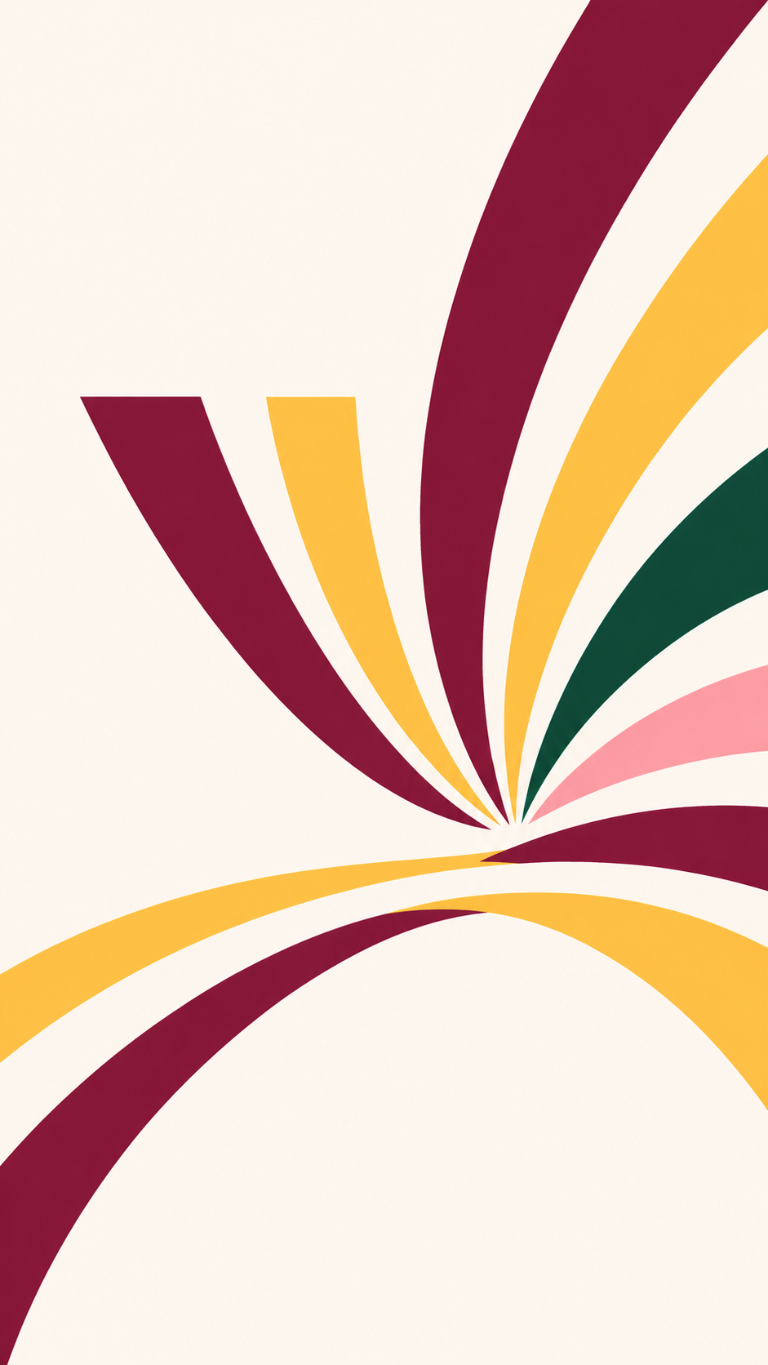
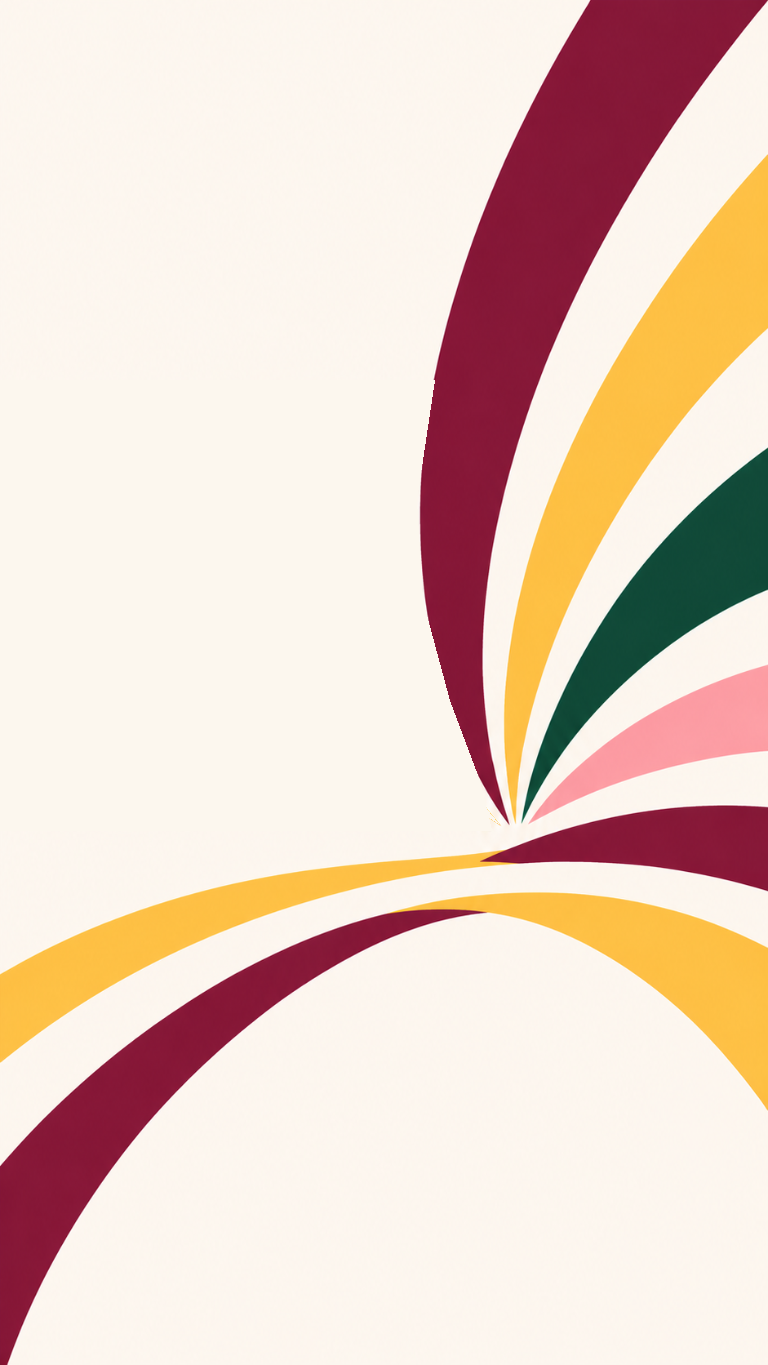
Update hero mobile background, shop and global styles

Changed region(s): [[0.0938, 0.2769, 0.6562, 0.6154]]

diff --git a/src/app/globals.css b/src/app/globals.css
@@ -70,7 +70,7 @@ footer{padding:42px 8vw 28px;display:flex;align-items:end;justify-content:space-
  .hero-reference{min-height:900px;padding-bottom:0}
  .hero-reference .hero-copy{width:100%;max-width:100%;align-self:stretch;margin-top:0}
  .hero-reference .hero-model{width:100%;height:62%;right:0}
- .hero-reference .hero-sunburst{background-image:url("/images/la-gruta-hero-mobile-bg.png");background-position:left top;background-size:auto 120%}
+ .hero-reference .hero-sunburst{background-image:url("/images/la-gruta-hero-mobile-bg.png?v=2");background-position:left top;background-size:auto 120%}
 }
 
 .hero-wholesale{display:inline-block;margin-left:18px;font-size:clamp(15px,1.4vw,21px);font-weight:700;color:#073d32;border-bottom:2px solid #073d32;padding-bottom:3px}
@@ -191,12 +191,15 @@ footer.site-footer .footer-social{border-bottom:0;padding:0}
 .footer-logo img{display:block;height:clamp(64px,6vw,92px);width:auto}
 
 /* Hero móvil: solo animación de entrada y parallax suave, sin rotación ni desvanecido */
-/* Hero móvil: mismo movimiento que desktop (fade del texto, giro del fondo, zoom del modelo).
-   El fondo es 1.9x más grande que el hero para que al girar no se vean las esquinas. */
+/* Hero móvil: sin movimiento al hacer scroll (solo animación de entrada) */
 @media(max-width:650px){
-  .hero-reference .hero-sunburst{inset:-45%;width:auto;height:auto;background-size:cover;background-position:center;transform-origin:50% 50%;transform:translateY(calc(var(--hero-p) * 40px)) rotate(calc(var(--hero-p) * 28deg)) scale(calc(1 + var(--hero-p) * .15))}
-  .hero-reference .hero-copy{transform:translateY(calc(var(--hero-p) * -50px));opacity:calc(1 - var(--hero-p) * 1.35)}
-  .hero-reference picture{transform:scale(calc(1 + var(--hero-p) * .06));transform-origin:bottom center}
+  .hero-reference .hero-sunburst{inset:0;width:100%;height:100%;background-size:cover;background-position:center bottom;transform:none;will-change:auto}
+  .hero-reference .hero-copy{transform:none;opacity:1}
+  .hero-reference picture{transform:none}
+  /* Textos del hero centrados */
+  .hero-reference .hero-copy{text-align:center;display:flex;flex-direction:column;align-items:center}
+  .hero-reference .intro{margin-left:auto;margin-right:auto}
+  .hero-reference .hero-wholesale{margin:18px auto 0;background:transparent;padding:0 0 3px}
 }
 
 .sr-only{position:absolute!important;width:1px;height:1px;padding:0;margin:-1px;overflow:hidden;clip:rect(0,0,0,0);white-space:nowrap;border:0}
@@ -266,4 +269,20 @@ html{scroll-padding-top:96px}
   .site-header nav.mobile-menu .lang-switch{display:flex;gap:8px}
   .site-header nav.mobile-menu .lang-switch a{display:inline-flex;align-items:center;justify-content:center;font:700 14px/1 Arial,sans-serif;letter-spacing:.08em;height:40px;min-width:56px;padding:0 16px;border:1px solid rgba(7,61,48,.25);border-bottom:1px solid rgba(7,61,48,.25);border-radius:30px;color:#101010;opacity:1}
   .site-header nav.mobile-menu .lang-switch a.on{background:#073d32;border-color:#073d32;color:#fff}
+}
+
+/* Móvil: textos de la home centrados */
+@media(max-width:650px){
+  .collection-editorial-copy,.story-copy,.location-main,.location-info{text-align:center}
+  .collection-editorial-description{margin-left:auto;margin-right:auto}
+  .story-copy>p:not(.eyebrow){margin-left:auto;margin-right:auto}
+  .story-copy .eyebrow,.location-eyebrow{justify-content:center}
+  .location-info:before{left:50%;right:auto;width:60px;margin-left:-30px}
+  footer.site-footer{grid-template-columns:1fr;justify-items:center;text-align:center}
+  .footer-logo,.footer-links,footer.site-footer .footer-copy{justify-self:center}
+  .footer-links{justify-content:center}
+  .footer-contact{justify-self:center;justify-items:center}
+  .footer-contact a{flex-direction:column;align-items:center;gap:4px}
+  .footer-contact b{min-width:0}
+  footer.site-footer .footer-copy{white-space:normal}
 }

diff --git a/src/components/Shop.tsx b/src/components/Shop.tsx
@@ -14,6 +14,7 @@ import {
   SHIPPING_COST,
   WHOLESALE_MIN_ITEMS,
   whatsappLink,
+  WHATSAPP_NUMBER,
   formatPrice as formatPriceIntl,
   type Product,
 } from "@/lib/products";
@@ -270,14 +271,16 @@ export default function Shop({
         )}
       </main>
 
-      <footer className="shop-footer">
-        <p>
-          {t.footerHelp}{" "}
-          <a href={whatsappLink(t.wa.hello)} target="_blank" rel="noreferrer">
-            WhatsApp
-          </a>
-        </p>
-        <small>{t.footerSmall}{PRIVACY_LINK && <> · <Link href={`${base}/privacidad`}>{privacy[lang].title}</Link></>}</small>
+      <footer className="site-footer" id="contacto">
+        <Link className="footer-logo" href={base}><img src="/images/la-gruta-logo.png" alt={d.common.logoAlt} /></Link>
+        <nav className="footer-links" aria-label={d.home.footerNavAria}><Link href={`${base}/tienda`}>{d.home.footerShop}</Link><Link href={`${base}/blog`}>Blog</Link><Link href={`${base}#historia`}>{d.home.footerAbout}</Link></nav>
+        <div className="footer-contact">
+          <p className="footer-contact-title">{d.home.footerContact}</p>
+          <a href={`https://wa.me/${WHATSAPP_NUMBER}`} target="_blank" rel="noreferrer"><b>WhatsApp</b> +34 665 42 09 83</a>
+          <a href="https://www.instagram.com/lagrutabcn/" target="_blank" rel="noreferrer" aria-label={d.common.instagramAria}><b>Instagram</b> @lagrutabcn</a>
+          <a href="https://www.google.com/maps/search/?api=1&query=Carrer+de+Verdi+8+08012+Barcelona" target="_blank" rel="noreferrer"><b>{d.home.locLabel}</b> {d.home.locAddress1}, {d.home.locAddress2}</a>
+        </div>
+        <small className="footer-copy">© LA GRUTA 2026{PRIVACY_LINK && <> · <Link href={`${base}/privacidad`}>{privacy[lang].title}</Link></>}</small>
       </footer>
 
       {/* Vista de producto (pop-up) */}
